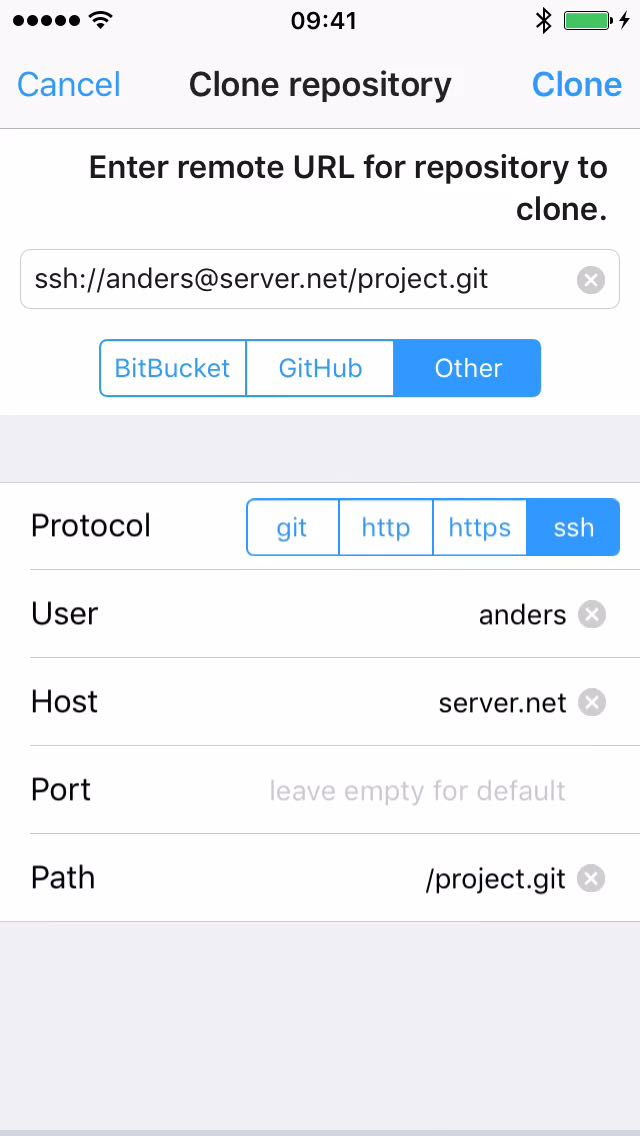
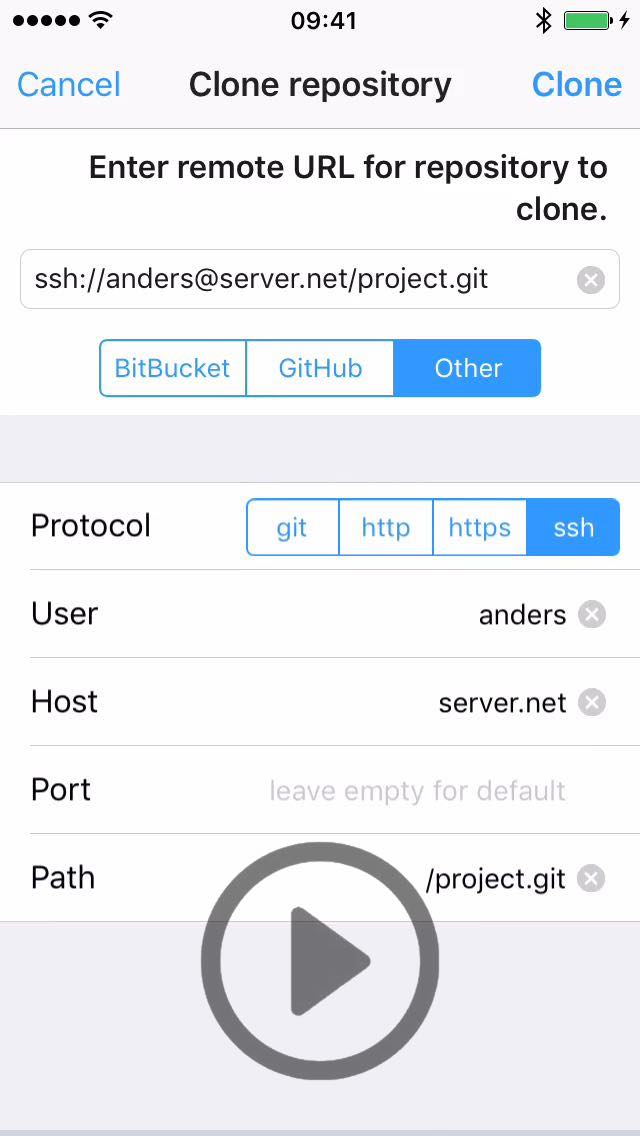
videos are started by tapping image

Changed region(s): [[0.3125, 0.7394, 0.6875, 0.9551], [0.4375, 0.8011, 0.5938, 0.8935]]

diff --git a/manual.html b/manual.html
@@ -727,13 +727,14 @@ andrew@company.se/home/andrew/git/site.git/
 
                 var video = document.createElement("video");
                 video.setAttribute("poster", "video/" + base + ".jpg");
-                video.setAttribute("controls", "true");
+                video.setAttribute("muted", "true");
                 video.setAttribute("preload", "none");
                 if(alt) video.setAttribute("alt", alt);
 
                 var source = document.createElement("source");
                 source.setAttribute("src", "video/" + base + ".mp4");
                 source.setAttribute("type", "video/mp4");
+                video.setAttribute("onclick", "this.play();");
                 video.appendChild(source);
 
                 var img = $(this)[0];
